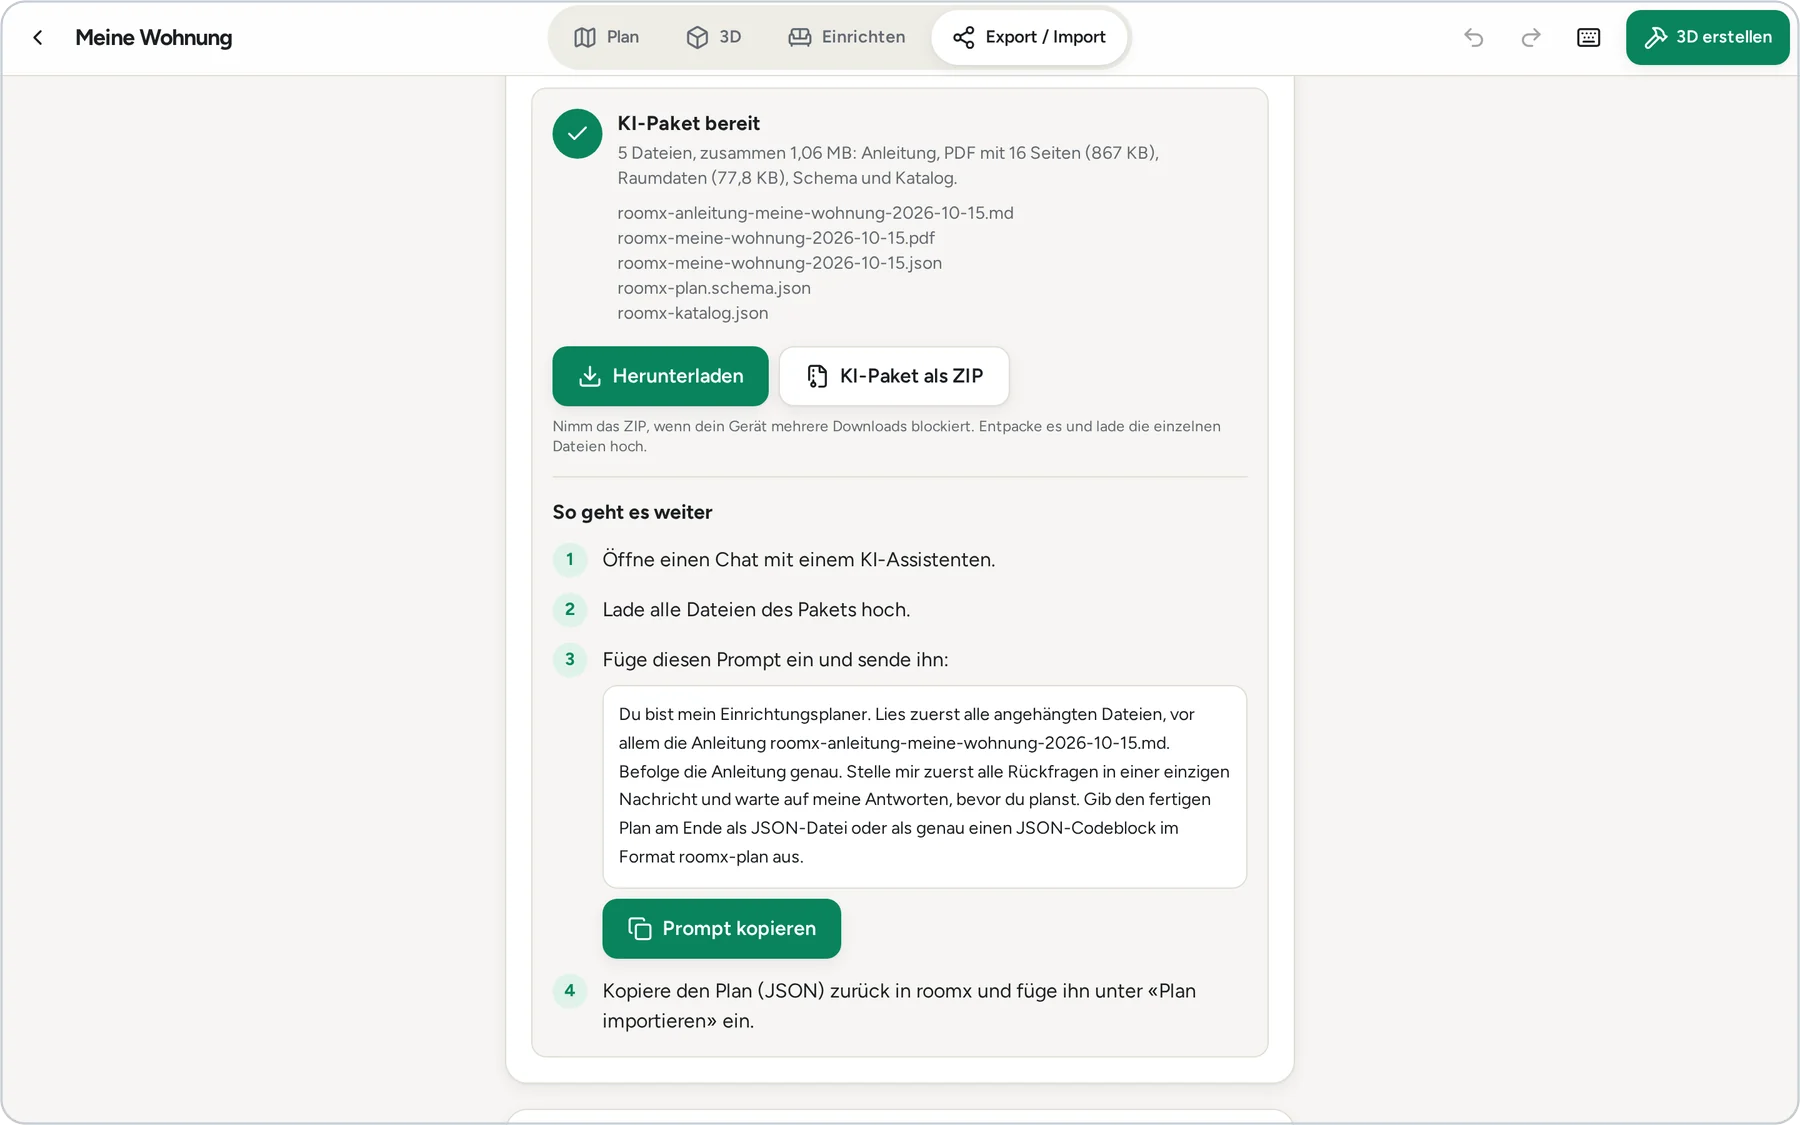
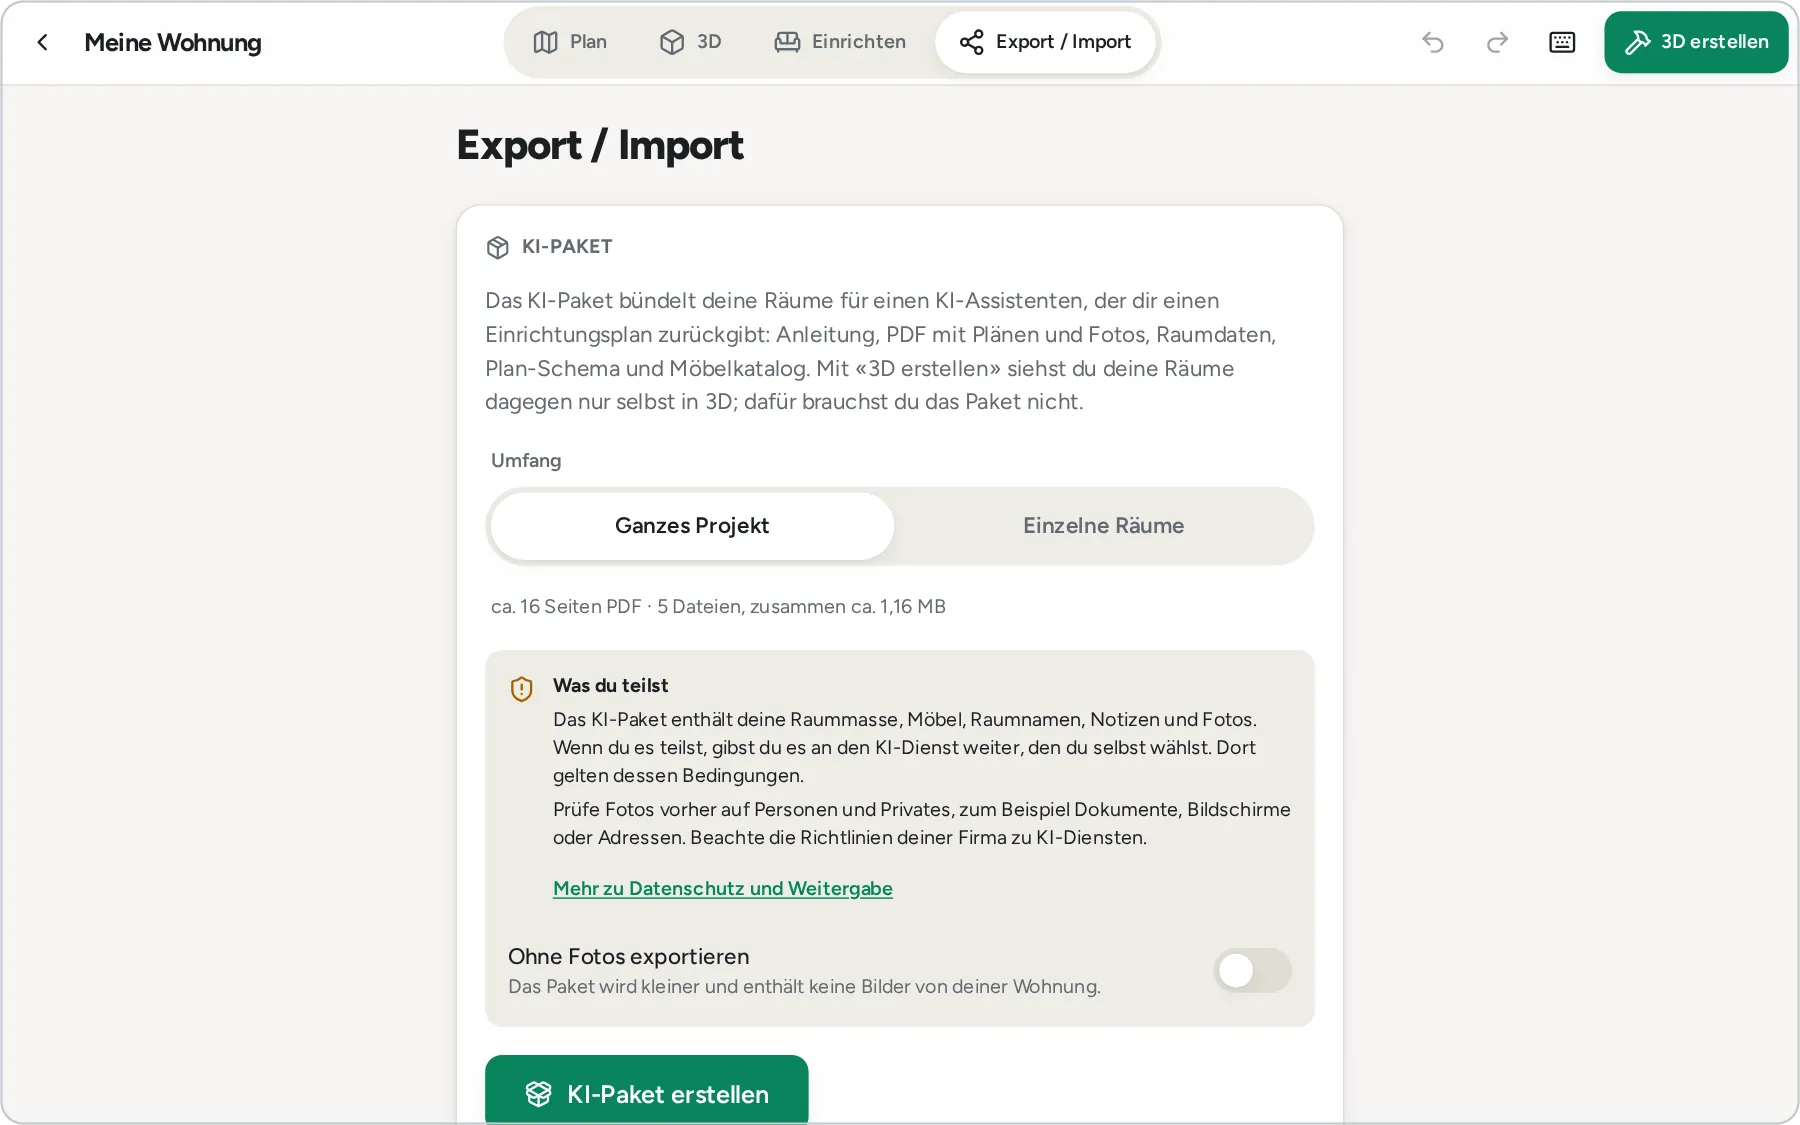
docs: handbook for trash, backups, storage, wall thickness, corrections and ci, with new screenshots

diff --git a/README.md b/README.md
@@ -131,9 +131,17 @@ A project is an apartment, a house or a single room, with all its rooms, photos,
 
 - **New project:** button at the bottom right. Give it a name.
 - **Open:** tap the card. The preview image shows your project in 3D.
-- **Menu (three dots) on the card:** Rename, Backup (ZIP), Delete. A deleted project is gone, so make a backup first if you are unsure.
+- **Menu (three dots) on the card:** Rename, Backup (ZIP), Delete.
+- **Delete goes to the trash.** A deleted project is not gone: “Move to trash” puts it in the **Trash** at the bottom of the project list, where it stays for **30 days**. “Undo” in the message at the bottom brings it back right away. In the Trash, “Restore” brings it back, “Delete for good” removes it for good; after 30 days roomx removes it by itself. The same “Undo” exists when you delete a photo.
 - **At the top of a project:** the tabs “Plan”, “3D”, “Furnish” and “Export / Import” switch between areas. Next to them are “Undo”, “Redo” and “Build 3D”.
 - **Gear icon at the top right:** [Settings](#settings).
+
+<p align="center">
+  <img src=".github/assets/screenshots/trash.webp" alt="Project list with an open Trash: one deleted project with Restore and Delete for good, and the message with Undo" width="760">
+</p>
+
+> [!NOTE]
+> With the self-hosted version and syncing switched on, a deletion only reaches your other devices when you delete the project for good.
 
 ### Capture rooms
 
@@ -172,11 +180,16 @@ An apartment is made of several rooms. So that roomx knows how they fit together
 1. Drag a room up to a neighbouring room.
 2. It **snaps in like a magnet**. The two rooms now share a wall.
 3. A connection symbol appears on the shared wall. In the panel, the “Neighbours” section shows which wall borders which room and how long the shared stretch is. One tap takes you to the neighbouring room.
+4. Under each neighbour, **“Wall thickness to …”** shows how thick the shared wall is. Pick 10, 12, 15, 20, 25 or 30 cm; roomx moves the neighbouring room accordingly. 3D and the plan draw the wall with this thickness.
+
+<p align="center">
+  <img src=".github/assets/screenshots/neighbours.webp" alt="Room panel with the Neighbours section: two neighbouring rooms with wall thickness choices of 10 to 30 cm, and the switch Deliberately separate" width="860">
+</p>
 
 **Doors and windows in the shared wall lead into both rooms.** If you put a door in the wall between the living room and the bedroom, it automatically appears in the bedroom as well, with the hinge mirrored. In the neighbouring room’s element list it is marked “from Living room”; you edit it in the room it belongs to.
 
 > [!IMPORTANT]
-> **Unconnected rooms are reported.** If a room in a project with several rooms has no neighbour, roomx points it out when you build the 3D view and when you export the AI package. You can carry on anyway. That makes sense for rooms that are deliberately separate, such as a cellar or garage.
+> **Unconnected rooms are reported.** If a room in a project with several rooms has no neighbour, roomx points it out when you build the 3D view and when you export the AI package. You can carry on anyway. For rooms that are deliberately separate, such as a cellar, garage, loft or an outdoor area, switch on **“Deliberately separate”** at the bottom of the “Neighbours” section in the room panel: roomx then no longer reports that room.
 
 ### Doors, windows and electrical
 
@@ -228,7 +241,7 @@ The photo tour guides you through a room step by step, so that no angle is missi
 
 On top of that you can take a **free photo** with a note at any time, for example of problem spots.
 
-Photos are shrunk on the device and saved without metadata.
+Photos are shrunk on the device and saved without metadata. If you delete a photo by mistake, “Undo” in the message at the bottom brings it back.
 
     </td>
     <td valign="top" width="260">
@@ -287,7 +300,7 @@ In the **Furnish** tab you place furniture in your rooms. At the top left you sw
 - **Drag** or **tap** furniture: tapping puts it into the room.
 
 > [!NOTE]
-> Catalogue prices are **guide prices in Swiss francs (CHF)** from the Swiss market. Only a few dimensions have been checked against the manufacturers’ websites; for those items a link leads to the manufacturer’s page. Always check dimensions and price with the retailer before you buy.
+> Catalogue dimensions are **guide values**. Items whose dimensions have not been checked against the manufacturer are marked **“Dimensions unverified”**. Prices are **guide prices in Swiss francs (CHF)** from the Swiss market, shown as “Guide price, as of October 2026”. Always check dimensions and price with the retailer before you buy.
 
 **Move furniture.** Drag a piece into place. The rotation handle turns it freely, the buttons in the panel turn it by 90° or 15°, or you type in the angle. On the plan, dotted lines show the distance to walls and other furniture. “Lock” protects a piece from being moved by accident. Duplicate and Delete are in the bar under the selected piece.
 
@@ -337,7 +350,7 @@ In the **Furnish** tab you place furniture in your rooms. At the top left you sw
 
 ### Furnish with an AI assistant
 
-You can have an AI assistant furnish your rooms. For this, roomx prepares an **AI package** and reads the assistant’s answer back in. It works with any AI assistant that accepts files. You do not need to install anything extra.
+You can have an AI assistant furnish your rooms. For this, roomx prepares an **AI package** and reads the assistant’s answer back in. It works with any AI assistant that accepts files. You do not need to install anything extra: the package already contains the instructions, the plan schema, the catalogue and a ready-made start prompt.
 
 > [!NOTE]
 > “Build 3D” is independent of this: it only shows your rooms in 3D for yourself. You only need the AI package if you want an assistant to make a plan for you.
@@ -354,21 +367,29 @@ You can have an AI assistant furnish your rooms. For this, roomx prepares an **A
 
 **Step by step:**
 
-1. **Create the AI package.** Open the “Export / Import” tab. Choose “Whole project” or “Selected rooms” and tap “Create AI package”. Beforehand roomx shows the estimated size and points out gaps in the plan, such as [unconnected rooms](#connect-rooms) or missing required photos. “Export anyway” carries on. Then “Share” or “Download”.
+1. **Create the AI package.** Open the “Export / Import” tab. Choose “Whole project” or “Selected rooms” and tap “Create AI package”. Beforehand roomx shows the estimated size and a notice **“What you share”**, and then points out gaps in the plan, such as [unconnected rooms](#connect-rooms) or missing required photos. “Export anyway” carries on. Then “Share” or “Download”. If you do not want to hand over any pictures of your home, switch on **“Export without photos”**.
 2. **Upload it in a chat.** Open a chat with an AI assistant of your choice and upload **all files** of the package. In roomx, tap **“Copy prompt”** and paste the text into the chat. Under “What to do next”, roomx shows these steps and the ready-made prompt right away.
 3. **Answer the questions.** The assistant asks what else it needs to know, for example about style, budget or wishes. Answer them.
 4. **Get the plan back as JSON.** At the end the assistant outputs the furnishing plan as JSON in the `roomx-plan` format. Copy the **whole reply**, or save the plan as a file.
-5. **Import the plan.** In roomx go to “Export / Import”, section “Import plan”: paste the text (“From clipboard” helps) or choose the file. The reply may contain other text as well; roomx finds the JSON by itself.
+5. **Import the plan.** In roomx go to “Export / Import”, section “Import plan”: paste the text (“From clipboard” helps) or choose the file. roomx is tolerant here: the reply may contain other text, a code block or comments in the JSON; roomx finds the JSON by itself.
 6. **Check the preview.** For each variant roomx shows the total and lists conflicts (for example “blocks the door”), notes and anything that cannot be imported.
 7. **Import as a variant.** “Import as new variant” adds the plan as a variant. Nothing is overwritten. If you like, choose whether the needs from the plan are taken over as well.
 8. **Adjust and export again.** Look at the variant in “Furnish” and change what you do not like. For a second round, create a new AI package: it now contains your adjusted furnishing.
 
 <p align="center">
-  <img src=".github/assets/screenshots/export.webp" alt="Export and Import: AI package card with scope and a button to create it, backup below" width="760">
+  <img src=".github/assets/screenshots/export.webp" alt="Export and Import: AI package card with scope, the notice What you share, the switch Export without photos and the button to create the package" width="760">
 </p>
 
 <p align="center">
-  <img src=".github/assets/screenshots/import.webp" alt="Import plan: pasted JSON and the preview" width="760">
+  <img src=".github/assets/screenshots/package-ready.webp" alt="AI package ready: the five files, the buttons Download and AI package as ZIP, and the steps with the prompt and the button Copy prompt" width="760">
+</p>
+
+<p align="center">
+  <img src=".github/assets/screenshots/import.webp" alt="Import plan: pasted reply with JSON and the preview with total and notes" width="760">
+</p>
+
+<p align="center">
+  <img src=".github/assets/screenshots/import-corrections.webp" alt="Import preview with a piece of furniture that was not imported and the box with the button Copy corrections" width="760">
 </p>
 
 > [!TIP]
@@ -378,10 +399,10 @@ You can have an AI assistant furnish your rooms. For this, roomx prepares an **A
 > **For large apartments**, export the rooms one at a time (“Selected rooms”). If roomx says the package is getting large and the assistant will not accept it, this is the best way.
 
 > [!TIP]
-> **Error message on import?** If there are errors or the reply breaks off in the middle of the JSON, roomx shows the exact places. With “Copy corrections” you send the list to the assistant and ask for a corrected, complete reply.
+> **Something not right after the import?** Under the preview, “Copy corrections” copies a ready-made text for the AI assistant. It starts with “Please correct the plan:”, lists what could not be imported and the notes, and asks for the whole corrected plan. Paste it into the chat. The same works if the JSON is faulty or the reply breaks off in the middle.
 
 > [!IMPORTANT]
-> The AI package contains your room data and, if included, your **photos**. You pass them on yourself to the assistant’s provider, and its terms apply. Check the photos beforehand for people, documents and anything private. With “Selected rooms” you only share what is needed.
+> The AI package contains your room data and, if included, your **photos**. You pass them on yourself to the assistant’s provider, and its terms apply. Check the photos beforehand for people, documents and anything private. With “Selected rooms” or “Export without photos” you only share what is needed.
 
 ### Back up and move
 
@@ -389,15 +410,23 @@ You can have an AI assistant furnish your rooms. For this, roomx prepares an **A
 
 **Undo and Redo.** The arrows at the top (or `Ctrl`/`Cmd` + `Z`) undo the last step. Deleting rooms and furniture can be undone too. One drag counts as one step.
 
-**Backup (ZIP).** Under “Export / Import” or in the menu of the project card you create a backup: the whole project in one ZIP file, with project data and original photos. Optionally you add the AI package and the 3D model. roomx remembers when you last made a backup and reminds you when it is more than 14 days ago.
+**Backup of one project (ZIP).** Under “Export / Import” or in the menu of the project card you create a backup: the whole project in one ZIP file, with project data and original photos. Optionally you add the AI package and the 3D model.
 
-**Restore.** Under “Restore” choose the ZIP file. If the project already exists on this device, roomx asks whether you want to **replace** it or **create it as a copy**. If photos are missing or damaged, roomx tells you how many.
+**Restore one project.** Under “Restore” choose the ZIP file. If the project already exists on this device, roomx **never overwrites** it but creates it as a copy. If photos are missing or damaged, roomx tells you how many.
+
+**Back up everything.** In the [settings](#settings), “Back up everything” saves **all projects with their photos** in one ZIP file. “Restore everything” reads such a file back in. It never overwrites anything: a project that already exists is added as a copy. A project that cannot be opened is not lost: it goes into the backup unchanged as raw data. roomx remembers when you last made a backup and reminds you when it is more than 14 days ago; on iPhone and iPad it also shows a reminder, because Safari can delete data.
+
+<p align="center">
+  <img src=".github/assets/screenshots/settings.webp" alt="Settings: the Back up card with Back up everything and Restore everything, below the Storage card with usage" width="760">
+</p>
 
 **Moving to another device or to the installed app:**
 
 1. Create a backup (ZIP) in the old place.
 2. Transfer the file, for example by AirDrop, email or a cloud folder.
 3. Open roomx in the new place and restore the backup.
+
+**Storage and saving.** If saving fails, for example because the storage is full or the browser forbids it, roomx says so openly and offers **“Back up now”**; it never fails silently. Shortly before the storage is full it warns you. If you open the same project in a second tab or window, that tab only shows it (“Read only”) and updates by itself; “Edit here” takes over editing.
 
 **3D model (.glb).** Under “Export / Import” you export the selected rooms with the active variant as a `.glb` file. You can open the model in programs such as Blender or in an AR viewer.
 
@@ -412,9 +441,17 @@ You reach them with the gear icon at the top right of the project list.
 |---|---|
 | **Language** | Deutsch or English. The default is your browser’s language. |
 | **Length unit** | Centimetres or metres. |
+| **Back up** | “Back up everything” and “Restore everything”, see [Back up and move](#back-up-and-move). Shows when you last made a backup. |
+| **Install the app** | In Chrome and Edge, an “Install app” button appears here. On iPhone and iPad, roomx explains how to use “Add to Home Screen”, because Safari can delete the data of websites that have not been opened for seven days. |
 | **Storage** | Shows whether the browser **keeps the data permanently** (“Stored permanently”) or may delete it when space runs low, and how much space is used. “Ask again” tries to get permanent storage once more. It is more likely to work with the app on your home screen. |
 | **Help** | “Start the tour” plays the introduction again (ten steps, skippable at any time, optionally with a sample room). “Show keyboard shortcuts” opens the overview. |
-| **Privacy & liability** | Opens the page with the privacy policy and the disclaimer. |
+| **Version and diagnostics** | Shows the version and build date. “Copy diagnostics” copies technical details about device and app, **without project data**, names or photos, so you can paste them into a report. “Report a bug or suggest an idea” opens the GitHub issues (templates in German and English); you need a GitHub account for that, and you should not include private details or photos. |
+| **Reset everything** | “Delete all local data” removes all projects, photos and settings from this device. Beforehand roomx offers to back up first. This cannot be undone. |
+| **Privacy & liability** | Opens the page with the privacy policy, the disclaimer and the **open-source licences** of the parts roomx uses (also at `/rechtliches`). |
+
+<p align="center">
+  <img src=".github/assets/screenshots/settings-diagnostics.webp" alt="Settings: version, build date, Copy diagnostics, link to report a bug and the Reset everything card" width="760">
+</p>
 
 ### Keyboard shortcuts
 
@@ -466,6 +503,18 @@ The photos are inside the package’s PDF. roomx itself sends nothing: you uploa
 </details>
 
 <details>
+<summary><b>I deleted a project by mistake.</b></summary>
+
+Open the project list and the **Trash** at the bottom: deleted projects can be restored there for 30 days. Right after deleting, “Undo” in the message also helps.
+</details>
+
+<details>
+<summary><b>How do I report a mistake or suggest something?</b></summary>
+
+In the settings, under “Version and diagnostics”, tap “Report a bug or suggest an idea”. That opens the issues on GitHub (account needed). Paste the result of “Copy diagnostics” if it helps, but no private details.
+</details>
+
+<details>
 <summary><b>Does it cost anything?</b></summary>
 
 No. roomx is free and needs no account. If you use an AI assistant, its provider’s terms apply.
@@ -480,19 +529,19 @@ Yes, after the first load. The app stores its files in the browser and also star
 <details>
 <summary><b>My projects disappeared on my iPhone. What happened?</b></summary>
 
-Safari cleans up the data of websites you have not opened for a while. Install roomx via “Add to Home Screen” so that this happens less often. A backup (ZIP) brings projects back, see [Back up and move](#back-up-and-move). Under “Storage”, the settings show whether your browser keeps the data permanently.
+Safari can delete the data of websites you have not opened for seven days. Install roomx via “Add to Home Screen”, because installed apps are exempt from this. roomx also reminds you to do so on iPhone and iPad. A backup (ZIP) brings projects back, see [Back up and move](#back-up-and-move). Under “Storage”, the settings show whether your browser keeps the data permanently.
 </details>
 
 <details>
 <summary><b>Are the furniture dimensions and prices correct?</b></summary>
 
-They are guide values. Catalogue prices are guide prices in CHF, and only a few dimensions have been checked against the manufacturers’ websites. Check both with the retailer before you buy.
+They are guide values. Catalogue prices are guide prices in CHF (as of October 2026), and entries whose dimensions have not been checked are marked “Dimensions unverified”. Check both with the retailer before you buy.
 </details>
 
 <details>
 <summary><b>The assistant gives me a plan that roomx cannot read.</b></summary>
 
-In the error message, tap “Copy corrections”, paste the list into the chat and ask the assistant for a corrected, complete output. For very large apartments it helps to export the rooms one at a time.
+Tap “Copy corrections” (it appears under the import preview and with every error message), paste the text into the chat and ask the assistant for a corrected, complete output. For very large apartments it helps to export the rooms one at a time.
 </details>
 
 <details>
@@ -591,14 +640,20 @@ pnpm -C web preview      # preview the built result
 pnpm -C web test                # unit tests
 pnpm -C web test:e2e            # E2E in Chromium (desktop and iPad landscape), builds first
 pnpm -C web test:e2e:webkit     # E2E in WebKit (iPad landscape and portrait) in a Docker image
+pnpm -C web test:e2e:pages      # E2E against the public (Pages) edition in Chromium, with network audit
+pnpm -C web test:e2e:pages:webkit   # the same in WebKit, in a Docker image
 cd server && python -m venv .venv && .venv/bin/pip install -e '.[dev]' && .venv/bin/pytest
 ```
 
 The E2E tests run against the real server (port 4273, `web/tests/server.mjs`). For WebKit, `test:e2e:webkit` uses the Playwright Docker image `mcr.microsoft.com/playwright`, so it needs Docker.
 
+### Branches and continuous integration
+
+Work happens on the branch **`dev`**; **`main` is the published state**. The CI (`.github/workflows/ci.yml`) runs on every push and checks Prettier, types, unit tests, server tests, the builds and the E2E tests (Chromium, WebKit, and the Pages edition including a network audit that makes sure the public version sends no requests to other servers).
+
 ### Publishing via GitHub Pages
 
-Every push to `main` starts the workflow `.github/workflows/pages.yml`: install dependencies, `pnpm -C web test`, then `pnpm -C web build` with two environment variables. After that `index.html` is copied to `404.html` (so that direct links work in the single-page app) and `web/build` is published.
+A push to `main` (a release, marked with a version tag `v*`) starts the workflow `.github/workflows/pages.yml`. It runs the CI first and only deploys if it is green: install dependencies, then `pnpm -C web build` with two environment variables. After that `index.html` is copied to `404.html` (so that direct links work in the single-page app) and `web/build` is published.
 
 | Variable | What it does |
 |---|---|
